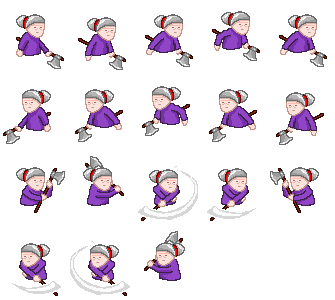
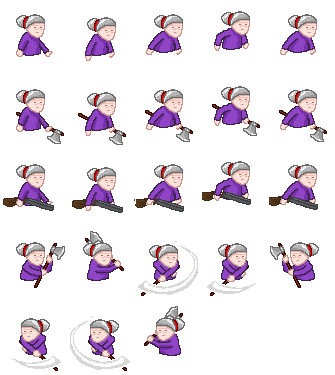
grannyUp animations

diff --git a/js/Functions.js b/js/Functions.js
@@ -260,7 +260,7 @@ function wolvesBehave(Wolves) {
    else{
      wolf.body.velocity.x = 0;
    }
-   
+
    if ((wolf.body.touching.left || wolf.body.touching.right) && wolf.body.touching.down){
      wolf.body.velocity.y = wolfJump;
     }
@@ -435,28 +435,28 @@ function playerAnimationUp(){
       }
     }else {
       if (gotAxe === 0) {
-        playerUp.frame = 5;
-      }else if (gotAxe == 1) {
         playerUp.frame = 0;
+      }else if (gotAxe == 1) {
+        playerUp.frame = 5;
       }else if (gotAxe == 2) {
-        playerUp.frame = 25;
+        playerUp.frame = 10;
       }
     }
   }else if(playerUp.body.touching.down){
     if (gotAxe === 0) {
-      playerUp.frame = 5;
+      playerUp.frame = 1;
     }else if (gotAxe == 1) {
-      playerUp.frame = 0;
+      playerUp.frame = 6;
     }else if (gotAxe == 2) {
-      playerUp.frame = 25;
+      playerUp.frame = 11;
     }
   }else{
     if (gotAxe === 0) {
-      playerUp.frame = 5;
-    }else if (gotAxe == 1) {
       playerUp.frame = 0;
+    }else if (gotAxe == 1) {
+      playerUp.frame = 5;
     }else if (gotAxe == 2) {
-      playerUp.frame = 25;
+      playerUp.frame = 10;
     }
   }
   if (position=='leftt') {

diff --git a/js/Player.js b/js/Player.js
@@ -46,9 +46,10 @@ function playerCreate(){
 
   //player ANIMATIONS
   playerDown.animations.add('right', [1, 2, 3, 4], 10, true);
-  playerUp.animations.add('right', [6, 7, 8, 9], 10, true);
-  playerUp.animations.add('rightAxe', [1, 2, 3, 4], 10, true);
-  animAxe = playerUp.animations.add('rightAxeChop', [10, 11, 12, 13], 10, true);
+  playerUp.animations.add('right', [1, 2, 3, 4], 10, true);
+  playerUp.animations.add('rightAxe', [6, 7, 8, 9], 10, true);
+  playerUp.animations.add('rightGun', [11, 12, 13, 14], 10, true);
+  animAxe = playerUp.animations.add('rightAxeChop', [15, 16, 17, 18], 10, true);
   animAxe.loop = false;
 
 };
